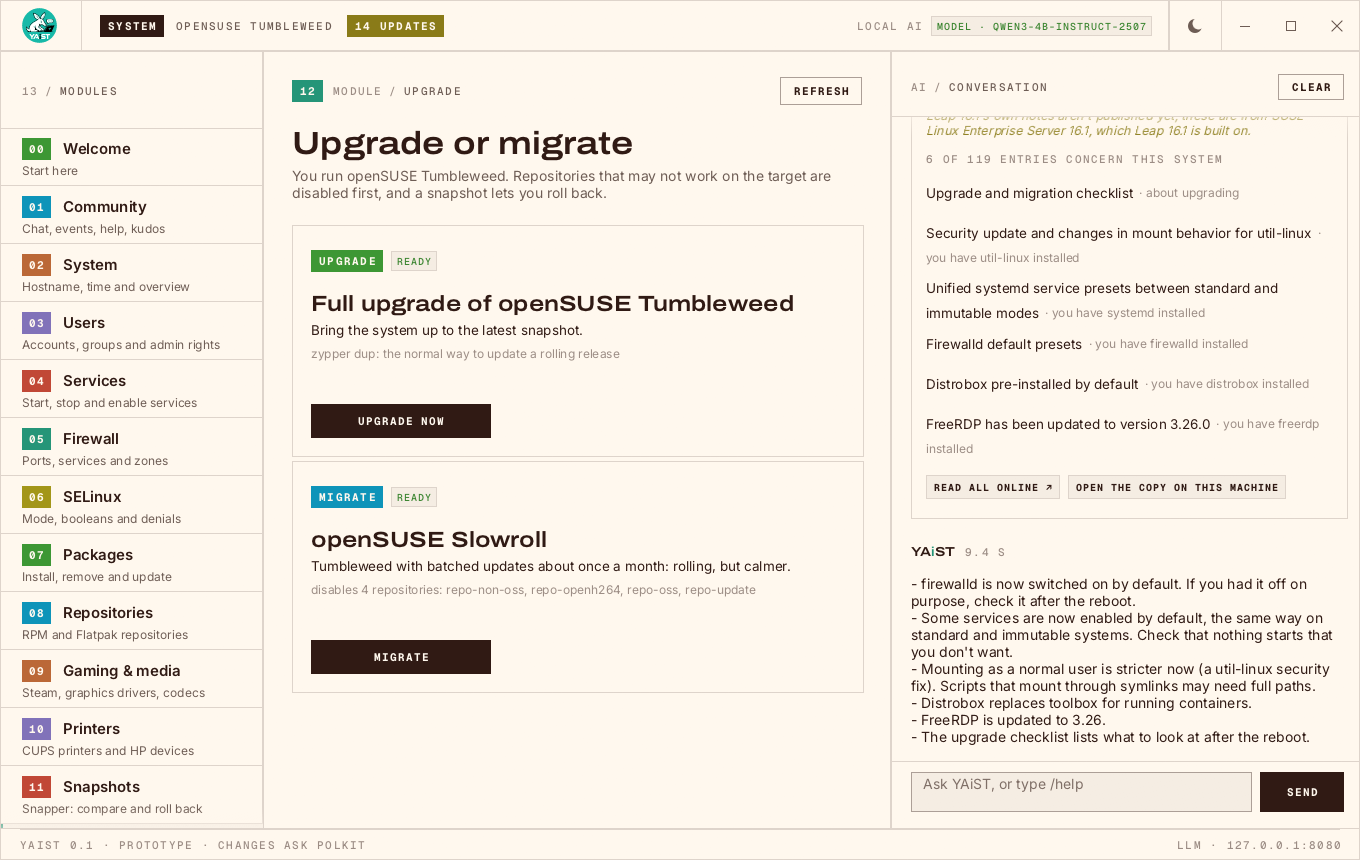
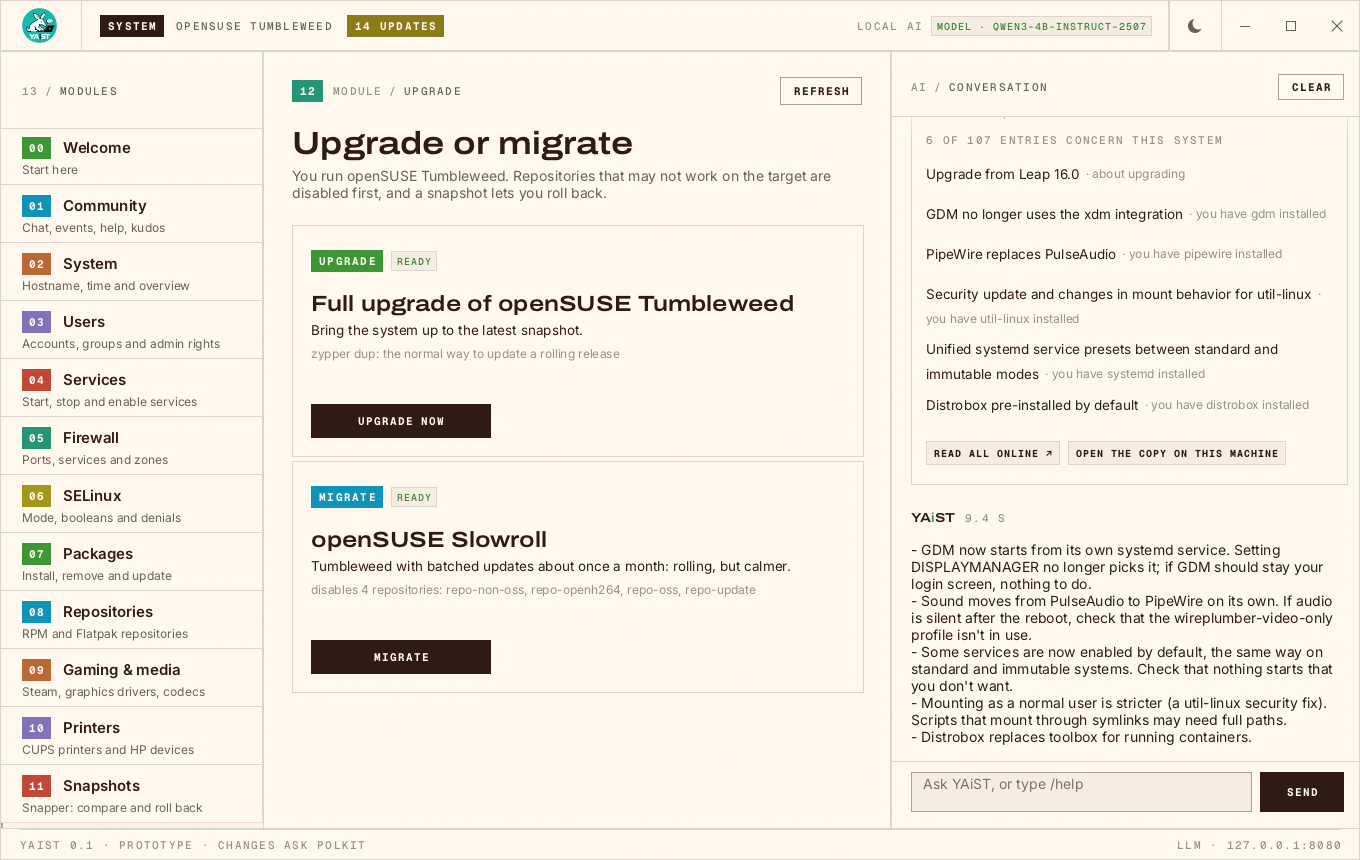
README: screenshots and examples; the rest in docs/DEVELOPMENT.md
The README now shows what YAiST does: the welcome screen, then examples
(package conflicts, what's new during an upgrade, reporting a problem,
familiar commands) with /demo to try them. Running from source, the
command line, privileges, configuration, the code layout, and the new
demo and screenshot docs move to docs/DEVELOPMENT.md. The configuration
table gains the variables it was missing.

The whats-new demo and its screenshot now show Leap 16.1's own notes, as
read from release-notes-openSUSE-Leap-16.1, instead of the SLES stand-in.

diff --git a/crates/yaist-ui/src/demo.rs b/crates/yaist-ui/src/demo.rs
@@ -124,40 +124,39 @@ const UPGRADE_LOG: &[&str] = &[
     "(1012/1843) Retrieving: kernel-default-6.12.0-160100.7.1.x86_64 (Main Repository (OSS)), 158.2 MiB",
 ];
 
-/// What `release_notes::load` gives for Leap 16.1 while only the SLES notes
-/// are out, on a desktop with an AMD card.
+/// What `release_notes::load` gives for Leap 16.1 from the installed
+/// release-notes-openSUSE-Leap-16.1, on a GNOME desktop.
 fn sample_notes() -> Notes {
-    let page = "https://documentation.suse.com/releasenotes/sles/html/releasenotes_sles_16.1/index.html";
+    let page = "/usr/share/doc/release-notes/openSUSE/Leap-16.1/RELEASE-NOTES.en.html";
     let entry = |title: &str, why: &str, id: &str, excerpt: &str| NoteEntry {
         title: title.into(),
         why: why.into(),
-        link: format!("{page}#{id}"),
+        link: format!("file://{page}#{id}"),
         excerpt: excerpt.into(),
     };
     Notes {
         release: "Leap 16.1".into(),
-        source: "SUSE Linux Enterprise Server 16.1 release notes".into(),
-        caveat: Some("Leap 16.1's own notes aren't published yet; these are from SUSE Linux Enterprise Server 16.1, which Leap 16.1 is built on.".into()),
-        online: page.into(),
-        local: Some("~/.cache/yaist/release-notes/sles-16.1.html".into()),
+        source: "Leap 16.1 release notes".into(),
+        caveat: None,
+        online: "https://doc.opensuse.org/release-notes/".into(),
+        local: Some(page.into()),
         entries: vec![
-            entry("Upgrade and migration checklist", "about upgrading", "upgrade-checklist", "What to check before, during and after the upgrade."),
+            entry("Upgrade from Leap 16.0", "about upgrading", "leap-upgrade-from-160", "Use the openSUSE migration tool; preview with --dry-run first."),
+            entry("GDM no longer uses the xdm integration", "you have gdm installed", "leap-features-306", "A systemd service from gdm-systemd starts GDM; DISPLAYMANAGER no longer selects it."),
+            entry("PipeWire replaces PulseAudio", "you have pipewire installed", "id-pipewire-replaces-pulseaudio", "Upgrades should move from PulseAudio automatically."),
             entry("Security update and changes in mount behavior for util-linux", "you have util-linux installed", "jsc-PED-16741", "Non-root mount operations must always use path canonicalization."),
             entry("Unified systemd service presets between standard and immutable modes", "you have systemd installed", "jsc-PED-16083", "Several service presets are newly enabled by default."),
-            entry("Firewalld default presets", "you have firewalld installed", "jsc-PED-4973", "firewalld is now enabled by default."),
             entry("Distrobox pre-installed by default", "you have distrobox installed", "jsc-PED-16282", "distrobox replaces the older toolbox utility."),
-            entry("FreeRDP has been updated to version 3.26.0", "you have freerdp installed", "jsc-PED-15573", "FreeRDP 3.26.0."),
         ],
-        total: 119,
+        total: 107,
     }
 }
 
-const SAMPLE_SUMMARY: &str = "- firewalld is now switched on by default. If you had it off on purpose, check it after the reboot.
+const SAMPLE_SUMMARY: &str = "- GDM now starts from its own systemd service. Setting DISPLAYMANAGER no longer picks it; if GDM should stay your login screen, nothing to do.
+- Sound moves from PulseAudio to PipeWire on its own. If audio is silent after the reboot, check that the wireplumber-video-only profile isn't in use.
 - Some services are now enabled by default, the same way on standard and immutable systems. Check that nothing starts that you don't want.
-- Mounting as a normal user is stricter now (a util-linux security fix). Scripts that mount through symlinks may need full paths.
-- Distrobox replaces toolbox for running containers.
-- FreeRDP is updated to 3.26.
-- The upgrade checklist lists what to look at after the reboot.";
+- Mounting as a normal user is stricter (a util-linux security fix). Scripts that mount through symlinks may need full paths.
+- Distrobox replaces toolbox for running containers.";
 
 #[cfg(test)]
 mod tests {

diff --git a/crates/yaist-modules/src/release_notes.rs b/crates/yaist-modules/src/release_notes.rs
@@ -5,9 +5,10 @@
 //! Our code picks the entries; a model may summarise them, never choose
 //! them. Leap's own notes come first: online (doc.opensuse.org, kept in
 //! ~/.cache/yaist/release-notes) or installed (release-notes-openSUSE-Leap-
-//! <version>, which has them before they are online). Without either, the
-//! notes of the SUSE Linux Enterprise Server release Leap is built on stand
-//! in. For Leap, entries only enterprise customers care about are left out. `YAIST_RELEASE_NOTES=file.html` reads a local copy
+//! <version>, which has them before they are online). Leap's notes are an
+//! overlay on the notes of the SUSE Linux Enterprise Server release it is
+//! built on, so without them, SLES's stand in. Either way, for Leap the
+//! entries only enterprise customers care about are left out. `YAIST_RELEASE_NOTES=file.html` reads a local copy
 //! instead, for testing before the notes are out.
 
 use std::collections::HashSet;
@@ -187,7 +188,8 @@ pub async fn load(ctx: &Context, target: &Target) -> Notes {
             _ => (doc.url(), doc.url()),
         };
         return Notes {
-            // Leap's notes carry SLE's chapters too.
+            // Leap's notes are SLES's with a Leap overlay: SLES's
+            // enterprise-only entries are in them too.
             entries: relevant(&sections, &facts, matches!(target, Target::Leap(_)), &base),
             total: sections.len(),
             release,

diff --git a/README.md b/README.md
@@ -16,16 +16,38 @@ three run the same actions, and every change waits for your confirmation.
 - The model runs locally (llama.cpp); nothing leaves the machine.
 - Terminal UI and desktop GUI with the same layout.
 
-Status: **prototype**. See [PLAN.md](PLAN.md) for the design and
-[docs/LICENSING.md](docs/LICENSING.md) for licensing.
+Status: **prototype**.
 
 ![YAiST welcome screen on openSUSE Tumbleweed: modules on the left, updates and starting points in the middle, the AI conversation on the right](docs/screenshots/welcome.png)
 
-When a change runs into trouble, YAiST asks instead of failing. Here zypper
-found three conflicts in one install; each comes up in turn with zypper's own
-solutions, and a summary follows before anything is changed:
+## Examples
+
+**Conflicts are questions, not failures.** Here zypper found three conflicts
+in one install. Each comes up in turn with zypper's own solutions, and a
+summary follows before anything is changed:
 
 ![A package conflict dialog: "Package conflict 1 of 3", busybox-which conflicts with which, with zypper's solutions to pick from](docs/screenshots/package-conflict.png)
+
+**What's new while you wait.** During an upgrade to a new Leap release,
+YAiST offers to tell what changes. It shows the release-notes entries that
+concern this system (hardware, desktop, installed packages), each a link,
+and the local model sums them up:
+
+![The conversation during an upgrade to Leap 16.1: six of 107 release-notes entries that concern this system, such as GDM and PipeWire, with links, and a short summary below](docs/screenshots/whats-new.png)
+
+**Reporting a problem, when you decide to.** A failed change offers a
+prefilled openSUSE Bugzilla report or YAiST issue, the likelier one first,
+with what was run and its output already in it:
+
+![A failed package install: hplip's %post script failed, with "Report a Tumbleweed bug" suggested and "Report a YAiST issue" next to it](docs/screenshots/report.png)
+
+**Familiar commands work too.** `zypper in fish`, `sudo systemctl restart
+sshd` or `zypper --releasever 16.1 dup` typed in the prompt give the same
+confirmation card as asking in plain language. Every card shows the terminal
+command it stands for and, after a change, exactly what YAiST ran.
+
+Try any of these without changing anything: type `/demo` in the prompt for
+the made-up scenes, e.g. `/demo whats-new` or `/demo report-distro`.
 
 ## Modules
 
@@ -72,69 +94,12 @@ about 2.5 GB, nothing downloaded at run time. It runs as the sandboxed
 `yaist-llm` service, which is not enabled on its own; until it runs, panels
 and `/commands` work and the conversation says how to start it.
 
-## Running from source
+## More
 
-```sh
-# 1. The local model (rootless podman, Vulkan GPU if available; first start
-#    downloads ~2.5 GB)
-scripts/llm-server.sh
-
-# 2. Build (needs cargo; without it, builds in a Leap 16.0 container)
-cargo build                      # or: scripts/build-in-container.sh build
-
-# 3. Use it
-target/debug/yaist-gui           # desktop
-target/debug/yaist               # terminal (ctrl-q quits)
-```
-
-Familiar commands work in the prompt too and show what they map to, so
-`zypper in fish`, `sudo systemctl restart sshd` or `zypper --releasever 16.1
-dup` give the same confirmation card as asking in plain language. Every plan
-card shows the equivalent terminal command, and after a change, exactly what
-YAiST executed.
-
-To get YAiST into the desktop's app menu with its icon (development build,
-no root): `scripts/dev-install-desktop.sh`.
-
-Command line:
-
-```sh
-yaist run /firewall overview             # any read action
-yaist run /firewall open-port 8080 --yes # changes need --yes
-yaist ask "is ssh running?"              # one request through the agent; plans are never applied
-yaist help [module]                      # all /commands
-yaist tools                              # the tool definitions the model sees
-```
-
-Changes run with your privileges through polkit: systemd, firewalld and
-timedated ask for authentication themselves; package, user and SELinux changes
-use `pkexec`, and snapshots and Leap upgrades go through `yaist-helper`, a
-small privileged program that re-validates its arguments. Plain pkexec asks
-for the password every time; `scripts/dev-install-helper.sh` installs the
-helper with a polkit policy that keeps the authorisation for a few minutes.
-In the planned design all of this moves into a privileged `yaistd` daemon.
-
-## Configuration
-
-| Variable | Default |
-|---|---|
-| `YAIST_LLM_URL` | `http://127.0.0.1:8080` |
-| `YAIST_WELCOME_ART` | an SVG or PNG shown on the welcome screen instead of the drawn chameleon (e.g. the openSUSE logo) |
-| `YAIST_END_OF_LIFE` | pretend the end of support is this date (`YYYY-MM-DD`), to see the END OF LIFE state |
-| `YAIST_OS_RELEASE` | pretend to be another flavour, e.g. `tests/os-release/leap-16.1-immutable` (development; check plans only) |
-| `YAIST_MODEL` (llm-server.sh) | `unsloth/Qwen3-4B-Instruct-2507-GGUF:Q4_K_M` |
-| `YAIST_LLM_PORT` (llm-server.sh) | `8080` |
-
-## Layout
-
-```
-crates/yaist-core      action model: specs, validation, /command syntax, registry
-crates/yaist-modules   system, users, services, firewall, selinux, packages, repos
-crates/yaist-agent     llama-server client and tool-calling agent
-crates/yaist-ui        shared client model (state, plans, forms, palette)
-apps/yaist             TUI + CLI
-apps/yaist-gui         egui desktop app
-```
+- [docs/DEVELOPMENT.md](docs/DEVELOPMENT.md): running from source, the
+  command line, privileges, configuration, demos and screenshots
+- [PLAN.md](PLAN.md): the design
+- [docs/LICENSING.md](docs/LICENSING.md): licensing
 
 ## License
 

diff --git a/docs/DEVELOPMENT.md b/docs/DEVELOPMENT.md
@@ -1,0 +1,110 @@
+# Developing YAiST
+
+Running from source, the command line, how changes get their privileges,
+configuration, demos and screenshots. For what YAiST is, see the
+[README](../README.md); for the design, [PLAN.md](../PLAN.md).
+
+## Running from source
+
+```sh
+# 1. The local model (rootless podman, Vulkan GPU if available; first start
+#    downloads ~2.5 GB)
+scripts/llm-server.sh
+
+# 2. Build (needs cargo; without it, builds in a Leap 16.0 container)
+cargo build                      # or: scripts/build-in-container.sh build
+
+# 3. Use it
+target/debug/yaist-gui           # desktop
+target/debug/yaist               # terminal (ctrl-q quits)
+```
+
+To get YAiST into the desktop's app menu with its icon (development build,
+no root): `scripts/dev-install-desktop.sh`.
+
+## Command line
+
+```sh
+yaist run /firewall overview             # any read action
+yaist run /firewall open-port 8080 --yes # changes need --yes
+yaist run /upgrade release-notes 16.1    # what's new in Leap 16.1 for this system
+yaist ask "is ssh running?"              # one request through the agent; plans are never applied
+yaist help [module]                      # all /commands
+yaist tools                              # the tool definitions the model sees
+```
+
+## Privileges
+
+Changes run with your privileges through polkit: systemd, firewalld and
+timedated ask for authentication themselves; package, user and SELinux changes
+use `pkexec`, and snapshots and Leap upgrades go through `yaist-helper`, a
+small privileged program that re-validates its arguments. Plain pkexec asks
+for the password every time; `scripts/dev-install-helper.sh` installs the
+helper with a polkit policy that keeps the authorisation for a few minutes.
+In the planned design all of this moves into a privileged `yaistd` daemon.
+
+## Configuration
+
+| Variable | Default |
+|---|---|
+| `YAIST_LLM_URL` | `http://127.0.0.1:8080` |
+| `YAIST_LLM_MODEL` | `local`: the model name sent to the server |
+| `YAIST_WELCOME_ART` | an SVG or PNG shown on the welcome screen instead of the drawn chameleon (e.g. the openSUSE logo) |
+| `YAIST_THEME` | `light` starts the GUI in the light scheme |
+| `YAIST_FONT_DIR` | `/usr/share/yaist/fonts` |
+| `YAIST_HELPER` | path to `yaist-helper`; default: the installed one, else next to the binary |
+| `YAIST_RELEASE_NOTES` | a release-notes HTML page to read instead of the installed or online ones (testing) |
+| `YAIST_END_OF_LIFE` | pretend the end of support is this date (`YYYY-MM-DD`), to see the END OF LIFE state |
+| `YAIST_OS_RELEASE` | pretend to be another flavour, e.g. `tests/os-release/leap-16.1-immutable` (development; check plans only) |
+| `YAIST_MODEL` (llm-server.sh) | `unsloth/Qwen3-4B-Instruct-2507-GGUF:Q4_K_M` |
+| `YAIST_LLM_PORT` (llm-server.sh) | `8080` |
+| `YAIST_LLM_IMAGE` (llm-server.sh) | `ghcr.io/ggml-org/llama.cpp:server-vulkan` |
+
+## Demos
+
+States that are hard to reach on purpose, such as a change that failed or an
+upgrade half-way, come as made-up scenes. Type `/demo` in the prompt for the
+list, `/demo <scene>` to show one. They work in the GUI and the TUI, and
+stay out of `/help`. The cards are built from the real actions, with only
+their outcome invented; their buttons do what they always do (Retry proposes
+the real change, report links open the browser).
+
+| Scene | Shows |
+|---|---|
+| `report-distro` | a package's `%post` script fails: "Report a Tumbleweed bug" suggested |
+| `report-yaist` | YAiST misreads zypper: "Report a YAiST issue" suggested |
+| `upgrade-incomplete` | an upgrade that stopped part-way: continue it or roll back |
+| `upgrade-running` | an upgrade under way, offering what's new meanwhile ("Tell me" really reads the notes) |
+| `whats-new` | what that tells: the release-notes entries for this system and a summary |
+
+The scenes are in [crates/yaist-ui/src/demo.rs](../crates/yaist-ui/src/demo.rs).
+
+## Screenshots
+
+`scripts/screenshots.sh` regenerates `docs/screenshots`: the GUI runs in a
+throwaway Tumbleweed container and draws on the desktop's Wayland session.
+Arguments pick the shots (`scripts/screenshots.sh whats-new`); none takes
+them all. It needs a built `target/debug/yaist-gui`, Wayland and ImageMagick.
+
+The GUI takes one shot and quits when told:
+
+| Variable | Does |
+|---|---|
+| `YAIST_SCREENSHOT` | saves a frame to this `.ppm` file, then quits |
+| `YAIST_SCREENSHOT_DELAY` | seconds before the shot (default 4) |
+| `YAIST_MODULE` | selects module N at start |
+| `YAIST_DEMO` | submits this request at start, as if typed |
+| `YAIST_DEMO_CONFIRM` | `1` confirms the plan the request raises |
+| `YAIST_DEMO_CLICK` | `x,y[,clicks[,seconds]]` clicks there (2 for a double-click), after 2 seconds or as given |
+| `YAIST_DEMO_SCENE` | shows a demo scene at start, without the `/demo` line |
+
+## Layout
+
+```
+crates/yaist-core      action model: specs, validation, /command syntax, registry
+crates/yaist-modules   system, users, services, firewall, selinux, packages, repos, …
+crates/yaist-agent     llama-server client and tool-calling agent
+crates/yaist-ui        shared client model (state, plans, forms, palette, demos)
+apps/yaist             TUI + CLI
+apps/yaist-gui         egui desktop app
+```
